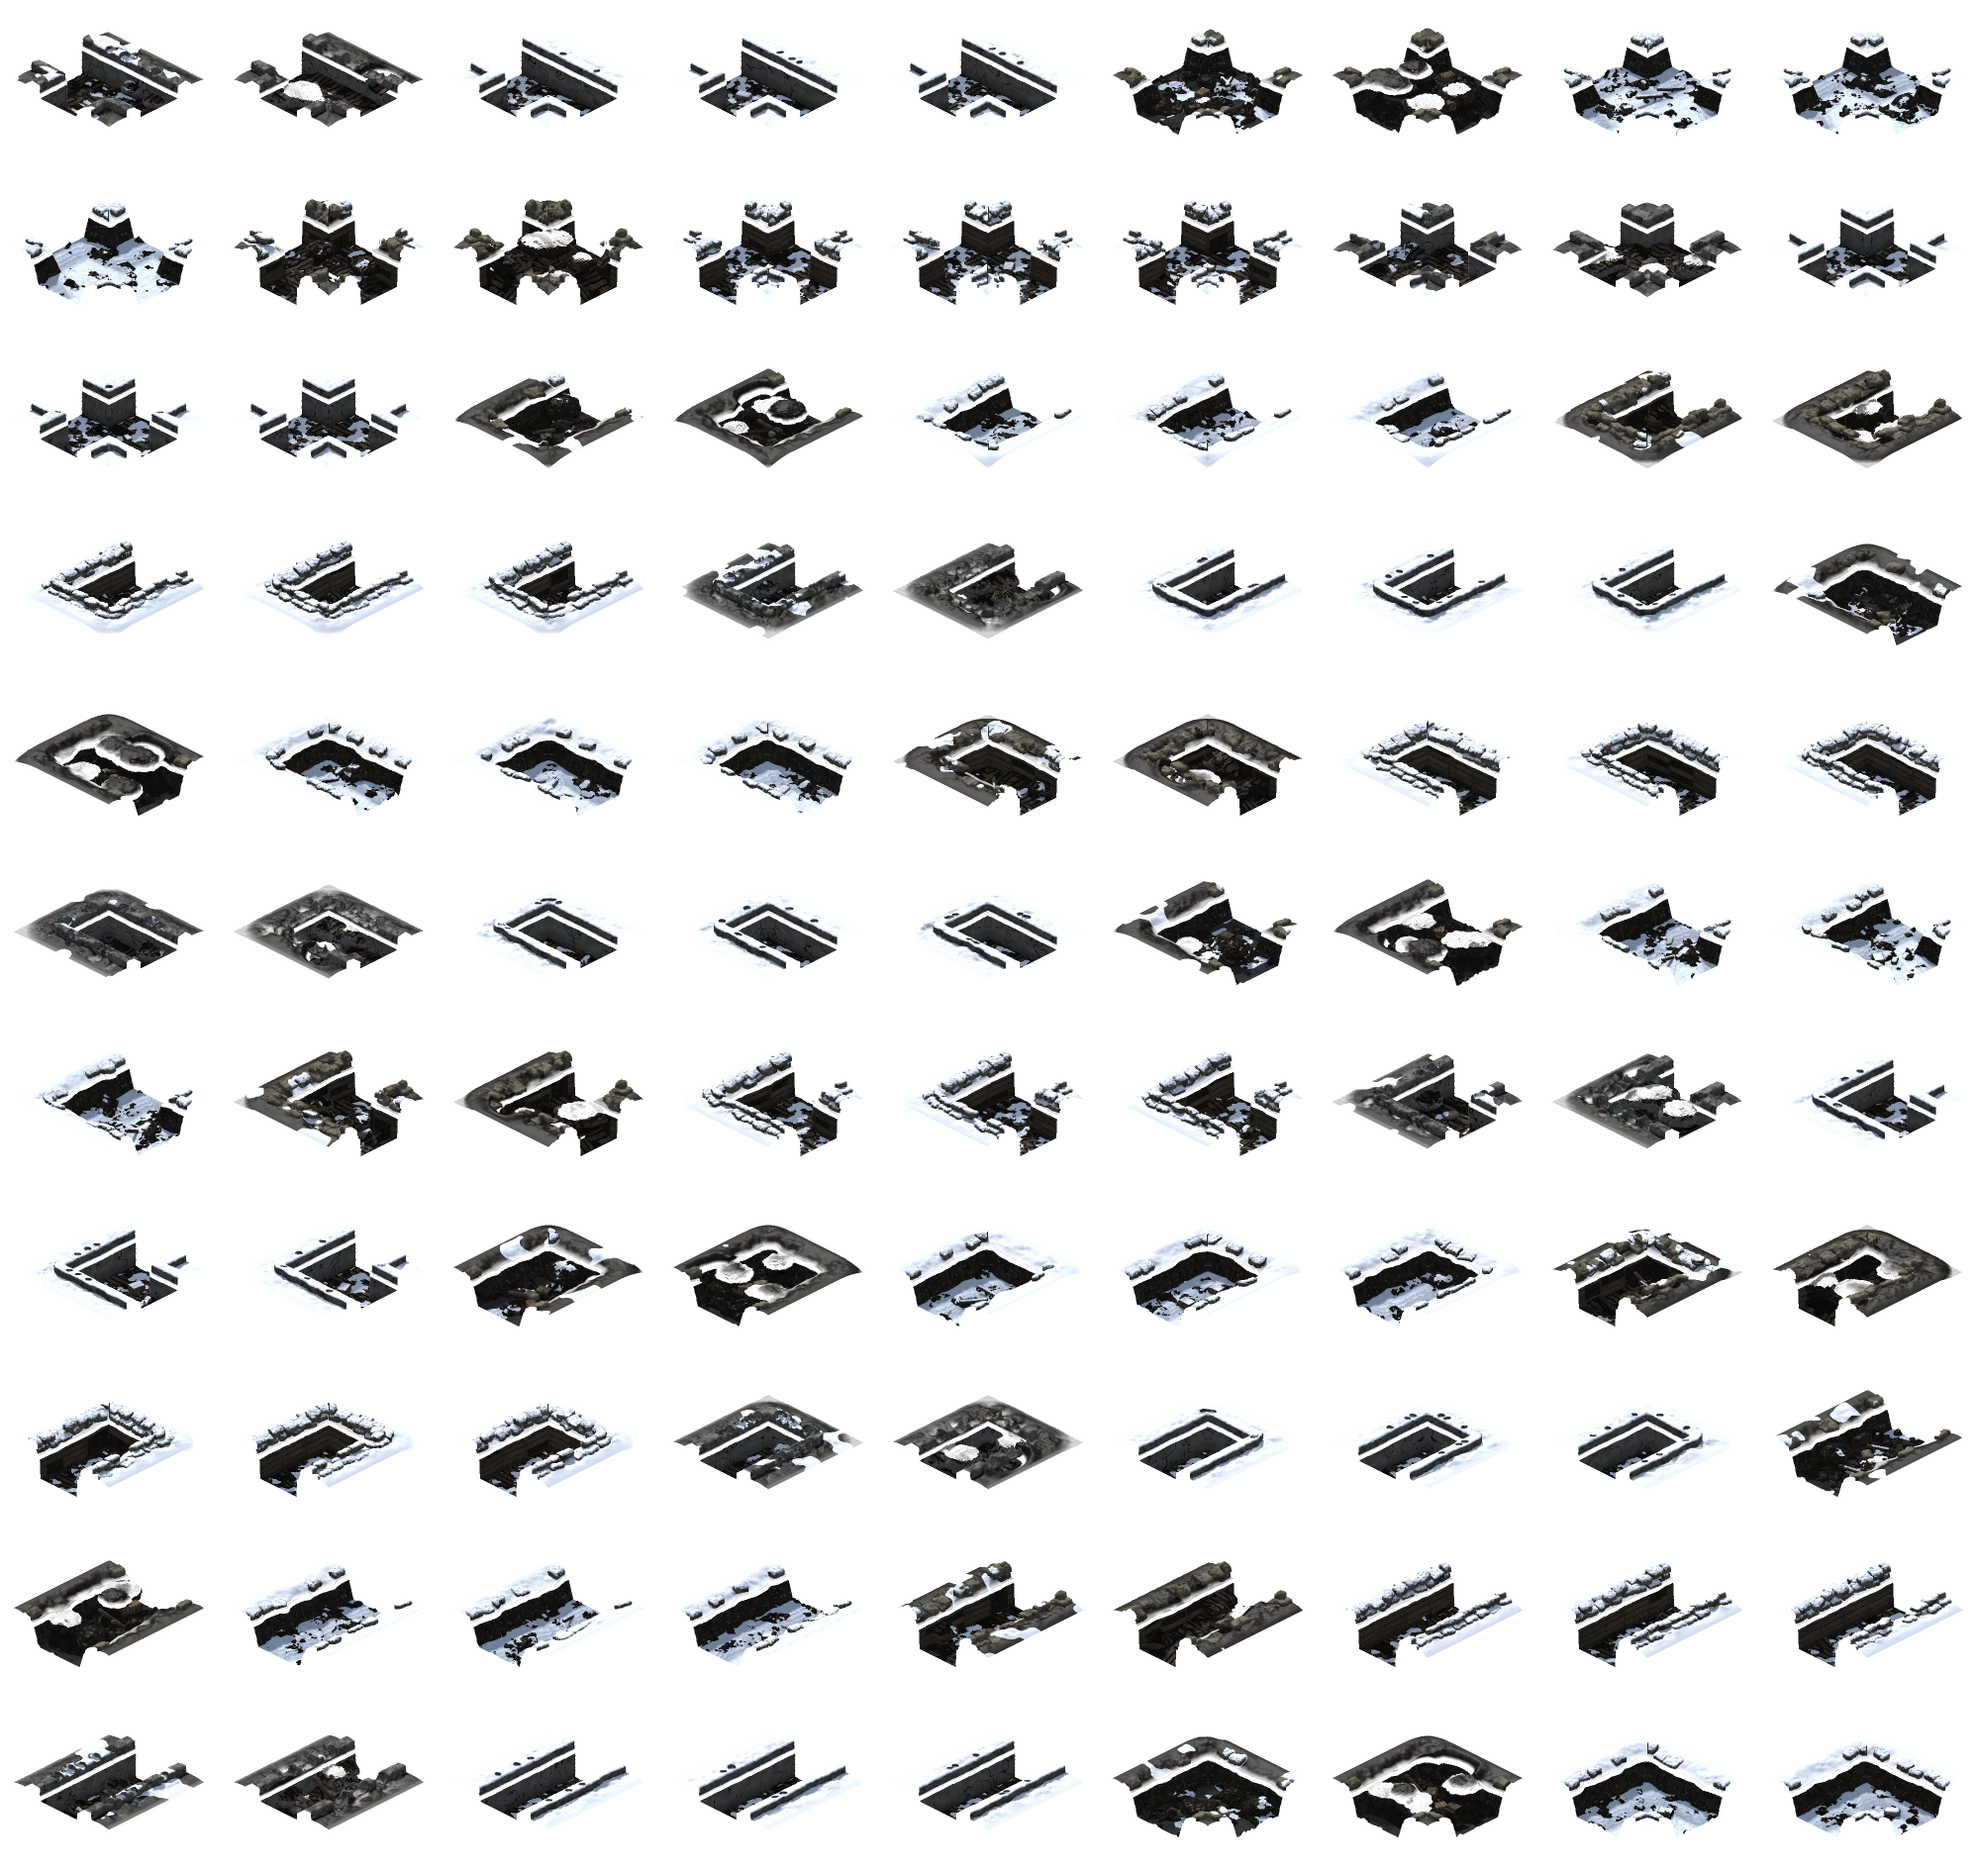
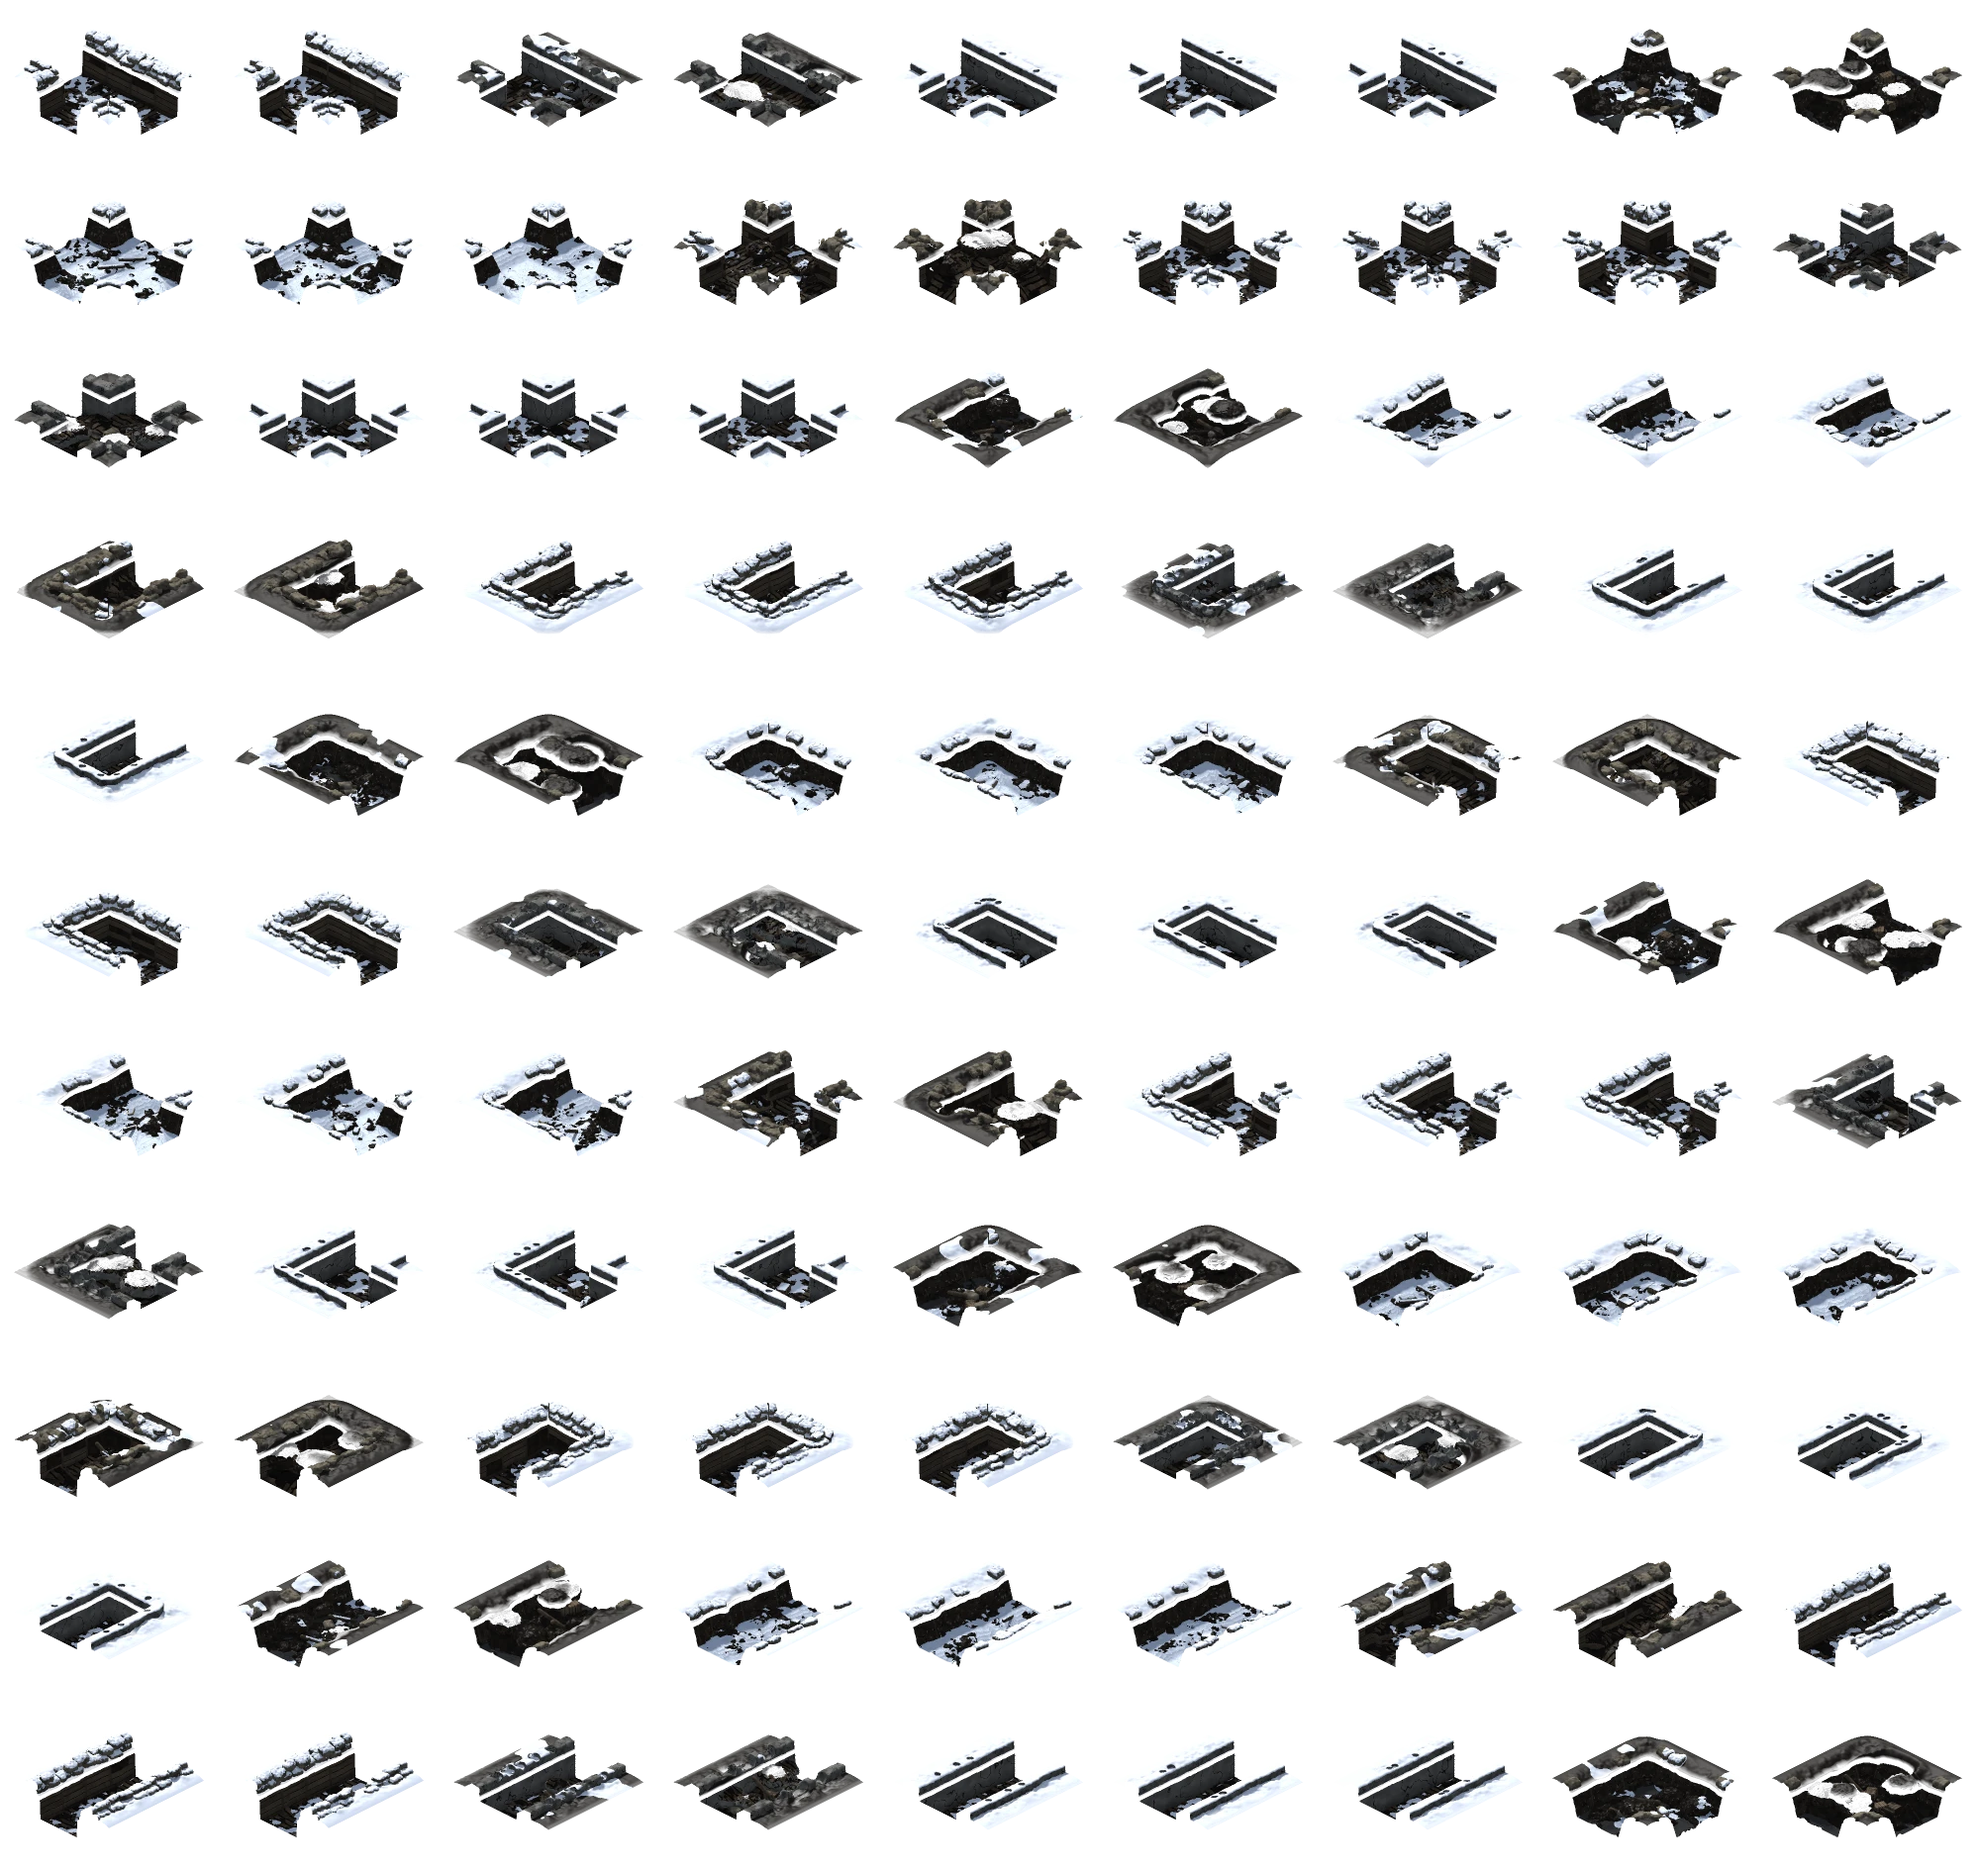
MG pillboxes are pre-rendered 3D props like the trenches (intact, wrecked, and snowy versions); pack-atlases can repack selected groups
Claude-Session: https://claude.ai/code/session_01QRLYjet5i3xPK5hPmw42NL

diff --git a/src/render.js b/src/render.js
@@ -1222,7 +1222,28 @@ export class Renderer {
    * and slumped, rubble about it, smoke curling out of the slits.
    */
   drawBunker(ctx, b, u, time, selected) {
-    const live = u && !u.dead, R = 0.66, H = 22, RR = R * 1.1, T = 4;
+    const live = u && !u.dead;
+    // the pre-rendered pillbox (intact or wrecked), as the trenches are
+    const c = iso(b.x, b.y), snow = (this.S ?? 1) > 0.7 ? '_s' : '';
+    const K = 1.4; // drawn larger than life so it reads as the objective (as the HQ)
+    if (this.drawFrame(ctx, this.propGroup(), 'bunker' + (live ? '' : '_x') + snow, c.x, c.y, K)) {
+      const UP = 39.2 * K; // screen px per world unit of height
+      if (live && u.visible && u.firing > 0) { // a flash at a slit when the gun fires
+        const f = iso(b.x + (-0.36 + Math.random() * 0.1) * K, b.y + 0.1 * K);
+        ctx.fillStyle = 'rgba(255,220,120,0.95)';
+        ctx.beginPath(); ctx.arc(f.x, f.y - 0.17 * UP, 2.5 + Math.random() * 2.5, 0, TAU); ctx.fill();
+      }
+      if (live && selected) { ctx.strokeStyle = 'rgba(220,230,150,0.9)'; ctx.lineWidth = 1.5; ctx.beginPath(); ctx.ellipse(c.x, c.y, 60, 29, 0, 0, TAU); ctx.stroke(); }
+      if (!live) { // smoke still curling out of the breach
+        for (let i = 0; i < 4; i++) {
+          const k = (time * 0.2 + i / 4) % 1, m = iso(b.x + 0.25 * K, b.y + 0.1 * K);
+          ctx.fillStyle = `rgba(60,58,54,${0.35 * (1 - k)})`;
+          ctx.beginPath(); ctx.arc(m.x + k * 12 + Math.sin(k * 5 + i) * 3, m.y - 0.3 * UP - k * 34, 3 + k * 9, 0, TAU); ctx.fill();
+        }
+      }
+      return;
+    }
+    const R = 0.66, H = 22, RR = R * 1.1, T = 4;
     const P = (dx, dy, z = 0) => { const p = iso(b.x + dx, b.y + dy); return { x: p.x, y: p.y - z }; };
     const ring = (r, n = 8, rot = Math.PI / 8) => Array.from({ length: n }, (_, k) => { const a = rot + (k * TAU) / n; return [Math.cos(a) * r, Math.sin(a) * r]; });
     const poly = (pts) => { ctx.beginPath(); pts.forEach((p, i) => (i ? ctx.lineTo(p.x, p.y) : ctx.moveTo(p.x, p.y))); ctx.closePath(); };

diff --git a/index.html b/index.html
@@ -19,7 +19,7 @@
       "./src/map.js": "./src/map.js?v=5f35f1d4",
       "./src/model-view.js": "./src/model-view.js?v=214a5b12",
       "./src/relief.js": "./src/relief.js?v=2441f819",
-      "./src/render.js": "./src/render.js?v=2453402e",
+      "./src/render.js": "./src/render.js?v=efc5dd42",
       "./src/save.js": "./src/save.js?v=9330fc67",
       "./src/tutorial.js": "./src/tutorial.js?v=e4dedf11",
       "./src/ui.js": "./src/ui.js?v=69c9f3cb",
